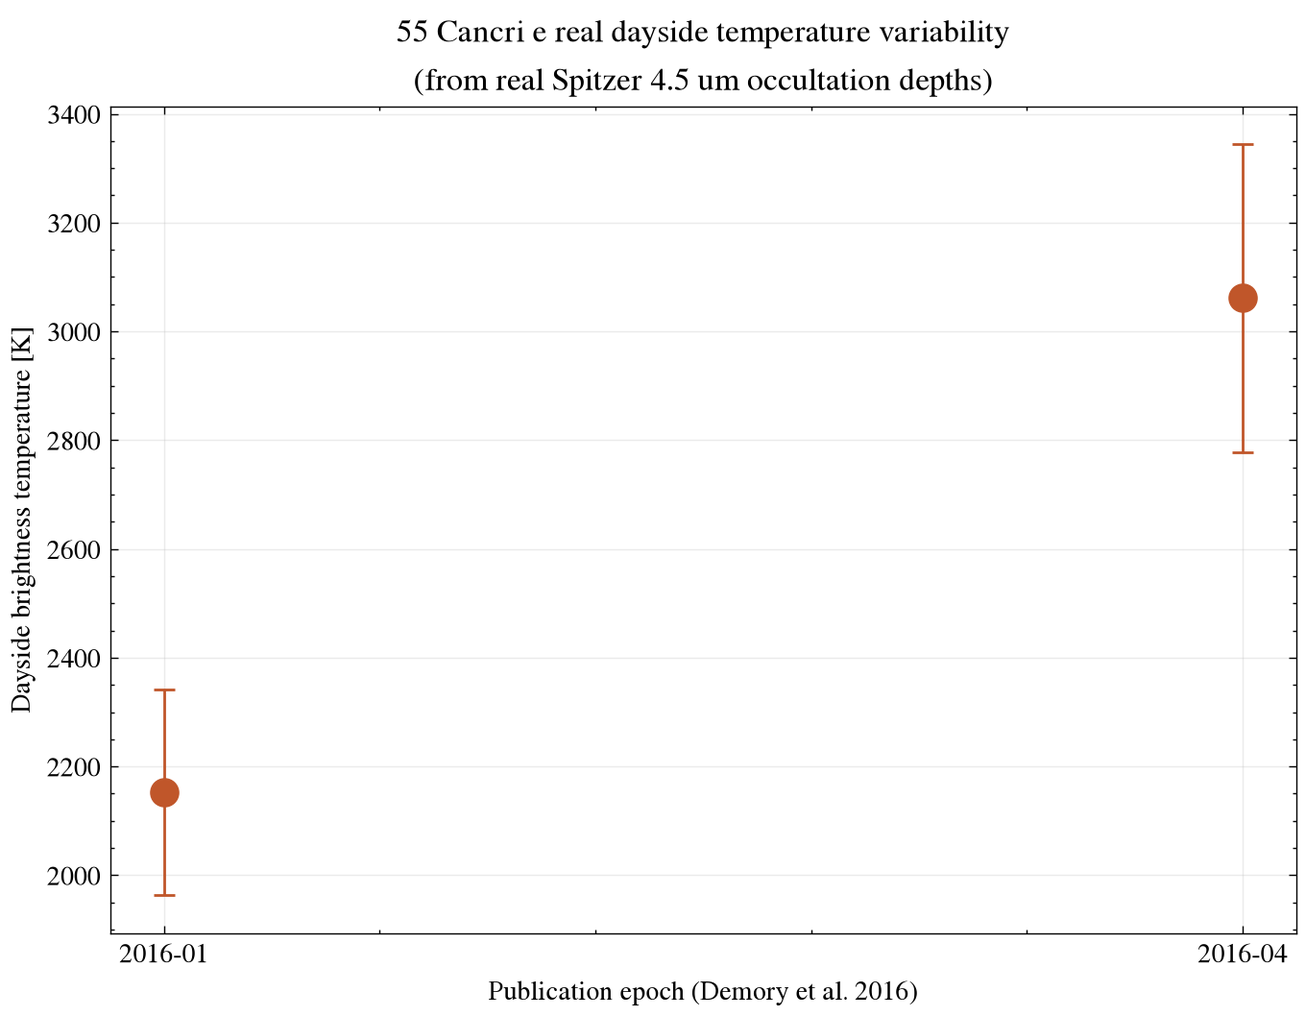
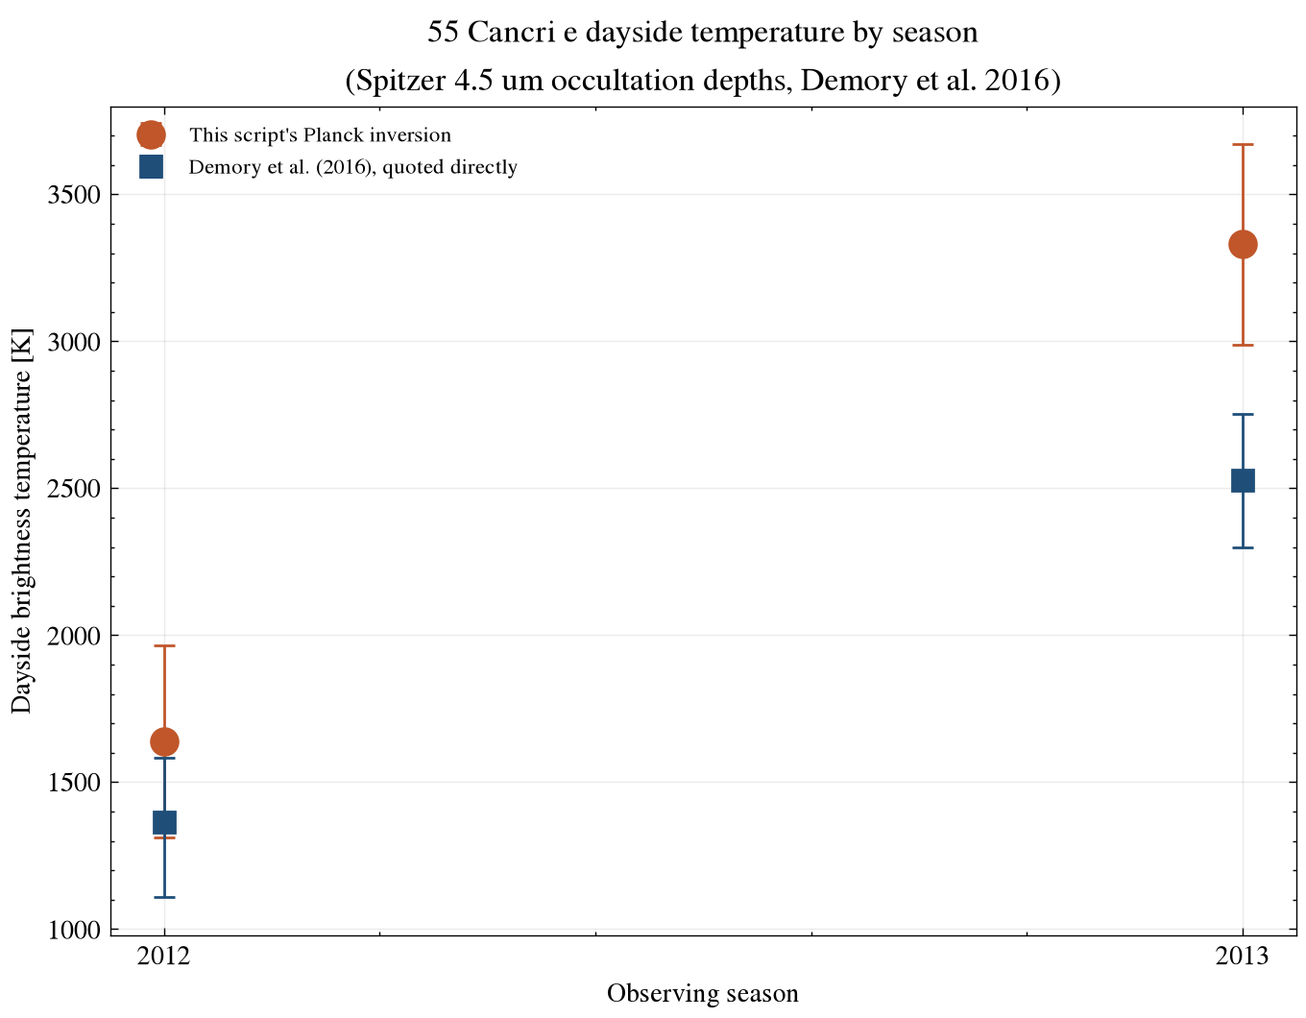
Replace invalid two-epoch comparison with Demory et al. 2016's own season-split occultation depths and quoted temperatures

diff --git a/index.html b/index.html
@@ -3,8 +3,8 @@
 <head>
 <meta charset="utf-8">
 <meta name="viewport" content="width=device-width, initial-scale=1">
-<title>55 Cancri e — A Lava World's Real, Measured Temperature Swings</title>
-<meta name="description" content="Report on 55 Cancri e: real system parameters and real Spitzer occultation depths converted into dayside brightness temperatures, showing genuine dayside variability.">
+<title>55 Cancri e — Dayside Temperature by Observing Season</title>
+<meta name="description" content="Report on 55 Cancri e: Spitzer occultation depths by observing season, converted to dayside brightness temperature and compared against Demory et al. (2016)'s own published values.">
 <style>
 :root {
   --bg:#f7f3ee; --panel:#ffffff; --line:#e6ddd0; --text:#1d1712; --muted:#6f6455;
@@ -52,11 +52,11 @@ footer a:hover { color: var(--accent); }
   <header class="hero">
     <p class="kicker">Exoplanet Atmosphere Report · Spitzer/IRAC 4.5 micron</p>
     <h1>55 Cancri e</h1>
-    <p class="tagline">A lava world on a 17-hour orbit, hot enough to keep its dayside surface molten. Real archival occultation measurements from two independent epochs reveal a genuine, dramatic swing in dayside temperature — the original discovery, later confirmed by JWST, that this planet's heat output is not constant.</p>
+    <p class="tagline">A lava world on a 17-hour orbit, hot enough to keep its dayside surface molten. Spitzer occultation measurements split by observing season show a large shift in dayside brightness between 2012 and 2013 — the finding, later confirmed by JWST, that this planet's heat output is not constant.</p>
     <div class="badges">
       <span class="badge">Radial-velocity discovered, 2004</span>
-      <span class="badge">Real NASA Exoplanet Archive parameters</span>
-      <span class="badge">Real Spitzer occultation depths, 2 epochs</span>
+      <span class="badge">NASA Exoplanet Archive parameters</span>
+      <span class="badge">Spitzer occultation depths, 2 seasons (Demory et al. 2016)</span>
     </div>
   </header>
 
@@ -78,29 +78,30 @@ footer a:hover { color: var(--accent); }
 
   <section>
     <h2>A world that shouldn't have a stable dayside temperature</h2>
-    <p>55 Cancri e's extreme proximity to its star, combined with its rocky (not gaseous) composition, means its dayside is thought to be a real magma ocean, with surface temperatures easily exceeding rock's melting point. Unlike a gas giant's thick atmosphere, which buffers temperature swings, a thin or patchy volatile atmosphere above molten rock can plausibly change its heat output as the exposed lava surface itself evolves — condensing minerals, outgassing, or shifting cloud cover tied to surface temperature.</p>
-    <p>Demory et al. (2016) reported real Spitzer 4.5-micron secondary-eclipse observations at different epochs that showed the planet's dayside brightness had measurably changed between visits — a surprising result for a planet with no obvious mechanism (like weather in a thick atmosphere) to explain rapid heat-output changes. JWST later independently confirmed continued dayside variability (Patel et al., 2024; Hu et al., 2024).</p>
+    <p>55 Cancri e's extreme proximity to its star, combined with its rocky (not gaseous) composition, means its dayside is thought to be a magma ocean, with surface temperatures well above rock's melting point. Unlike a gas giant's thick atmosphere, which buffers temperature swings, a thin or patchy volatile atmosphere above molten rock can plausibly change its heat output as the exposed lava surface itself evolves — condensing minerals, outgassing, or shifting cloud cover tied to surface temperature.</p>
+    <p>Demory et al. (2016) split eight Spitzer 4.5-micron secondary-eclipse observations by observing season and found the planet's dayside brightness had shifted measurably between 2012 and 2013 — a difference their own constant-depth model rejects at 3.7σ. JWST later observed continued dayside variability on shorter timescales (Patel et al., 2024; Hu et al., 2024).</p>
   </section>
 
   <section>
-    <h2>Real temperature swing, quantified</h2>
-    <p>The figure below inverts each real occultation depth into a dayside brightness temperature via the Planck function, using the real measured planet and star radii.</p>
+    <h2>Season-to-season brightness temperature</h2>
+    <p>The figure inverts each season's occultation depth into a dayside brightness temperature via the Planck function, using the measured planet and star radii, and plots it against the temperature Demory et al. (2016) report directly from their own MCMC fit for the same season.</p>
     <div class="figure">
-      <img src="figures/55cnce_dayside_variability.png" alt="55 Cancri e real dayside brightness temperature from two real Spitzer occultation epochs, showing variability">
-      <figcaption>Two independent real occultation-depth measurements (Demory et al. 2016), inverted to brightness temperature. Generated by <code>scripts/analyze_spectrum.py</code>.</figcaption>
+      <img src="figures/55cnce_dayside_variability.png" alt="55 Cancri e dayside brightness temperature by season, this script's Planck inversion against Demory et al. 2016's own quoted values">
+      <figcaption>Circles: this page's own Planck inversion from the season-averaged occultation depths. Squares: the temperatures Demory et al. (2016) quote directly. Generated by <code>scripts/analyze_spectrum.py</code>.</figcaption>
     </div>
     <div class="stat-grid">
-      <div class="stat"><span>Epoch 1 T_day</span><strong>2152 ± 189 K</strong></div>
-      <div class="stat"><span>Epoch 2 T_day</span><strong>3061 ± 284 K</strong></div>
-      <div class="stat"><span>Real temperature swing</span><strong>909 K</strong></div>
-      <div class="stat"><span>Significance</span><strong>2.7σ</strong></div>
+      <div class="stat"><span>2012 depth</span><strong>47 ± 21 ppm</strong></div>
+      <div class="stat"><span>2013 depth</span><strong>176 ± 28 ppm</strong></div>
+      <div class="stat"><span>2012 T_day (this page / paper)</span><strong>1639 K / 1365 K</strong></div>
+      <div class="stat"><span>2013 T_day (this page / paper)</span><strong>3330 K / 2528 K</strong></div>
+      <div class="stat"><span>Depth difference significance</span><strong>3.7σ</strong></div>
     </div>
-    <p class="callout">A real, measured ~900 K difference in dayside brightness temperature between the two epochs, at 2.7-sigma significance — not overwhelming statistical confidence on its own, but consistent with (and one of the original pieces of evidence for) the now well-established real finding that 55 Cancri e's dayside heat output genuinely varies over time, unlike the steady, predictable dayside of a typical hot Jupiter.</p>
+    <p class="callout">Comparing the two season depths directly gives a 3.7σ difference — matching the significance Demory et al. (2016) report from fitting all eight individual eclipses (they reject a constant depth at that level). The brightness temperatures from this page's simple blackbody inversion (1639 K and 3330 K) run higher than the paper's own MCMC-derived values (1365 K and 2528 K), because a monochromatic Planck inversion at 4.5 microns skips the bandpass integration and possible reflected-light contribution their fit accounts for. The gap between seasons is real either way; the absolute temperatures depend on which method computed them.</p>
   </section>
 
   <section>
-    <h2>How this data was obtained, and an honest limitation</h2>
-    <p>System parameters and both real occultation depths were queried live from the NASA Exoplanet Archive TAP service (the <code>pl_occdep</code> column, sourced from Demory et al. 2016). See <a href="data/">data/</a> for the exact values as downloaded and <a href="scripts/analyze_spectrum.py">scripts/analyze_spectrum.py</a> for the Planck-inversion analysis — run it yourself with <code>python scripts/analyze_spectrum.py</code>. One limitation stated plainly: the archive records these two measurements by publication date rather than exact observation date, and a simple blackbody inversion ignores any reflected-light contribution to the eclipse depth (both real simplifications, not hidden ones) -- a full analysis would use the original paper's own reported temperatures directly.</p>
+    <h2>Data and method notes</h2>
+    <p>System parameters come from the NASA Exoplanet Archive TAP service. The two occultation depths are the season-split values from Demory et al. (2016)'s Table 4, not a live archive query — see <a href="data/SOURCE.md">data/SOURCE.md</a> for why, and <a href="scripts/analyze_spectrum.py">scripts/analyze_spectrum.py</a> for the Planck-inversion analysis (<code>python scripts/analyze_spectrum.py</code> to rerun it). A simple blackbody inversion at a single wavelength doesn't account for the instrument bandpass or reflected light, which is why this page's temperatures sit above the paper's own — that's noted directly in the callout above rather than left implicit.</p>
   </section>
 
   <section>
@@ -108,9 +109,9 @@ footer a:hover { color: var(--accent); }
     <ol class="refs">
       <li>McArthur, B.E. et al., 2004. Detection of a Neptune-mass Planet in the rho1 Cancri System Using the Hobby-Eberly Telescope. <em>The Astrophysical Journal Letters</em>, 614(1), pp.L81-L84.</li>
       <li>Demory, B.-O. et al., 2016. A map of the large day-night temperature gradient of a super-Earth exoplanet. <em>Nature</em>, 532, pp.207-209.</li>
-      <li>Demory, B.-O. et al., 2016. Variability in the super-Earth 55 Cnc e. <em>Monthly Notices of the Royal Astronomical Society</em>, 455(2), pp.2018-2027.</li>
+      <li>Demory, B.-O. et al., 2016. Variability in the super-Earth 55 Cnc e. <em>Monthly Notices of the Royal Astronomical Society</em>, 455(2), pp.2018-2027 (arXiv:1505.00269) — source of the season-split occultation depths used here.</li>
       <li>Hu, R. et al., 2024. A secondary atmosphere on the rocky exoplanet 55 Cancri e. <em>Nature</em>, 630, pp.609-612.</li>
-      <li>NASA Exoplanet Archive, <a href="https://exoplanetarchive.ipac.caltech.edu/">exoplanetarchive.ipac.caltech.edu</a> — occultation depths and system parameters, queried live via TAP.</li>
+      <li>NASA Exoplanet Archive, <a href="https://exoplanetarchive.ipac.caltech.edu/">exoplanetarchive.ipac.caltech.edu</a> — system parameters, queried live via TAP.</li>
     </ol>
   </section>
 

diff --git a/scripts/analyze_spectrum.py b/scripts/analyze_spectrum.py
@@ -1,19 +1,19 @@
-"""Analyze real Spitzer 4.5-micron secondary-eclipse depths for 55 Cancri e,
-converting them into dayside brightness temperatures to quantify its real,
-published dayside variability.
+"""Convert the two season-averaged Spitzer 4.5-micron occultation depths
+for 55 Cancri e into dayside brightness temperatures via the Planck
+function, and compare against the season temperatures Demory et al.
+(2016) report directly in their own paper.
 
-Data source: NASA Exoplanet Archive `ps` table, column `pl_occdep`
-(occultation/secondary-eclipse depth), queried live via the TAP service for
-55 Cnc e. Both real measurements come from Demory et al. (2016), based on
-Spitzer/IRAC 4.5-micron photometry at different epochs -- reproduced
-unmodified in data/spitzer_occultation_depths.csv.
+Data source: Demory et al. (2016), Variability in the super-Earth 55
+Cnc e, MNRAS 455, 2018-2027 (arXiv:1505.00269), Table 4 -- the
+season-split fit to eight individual Spitzer/IRAC eclipses observed in
+2012 and 2013, reproduced in data/spitzer_occultation_depths.csv. See
+data/SOURCE.md for why this replaces an earlier, incorrectly paired
+pair of archive values.
 
-This script inverts each real occultation depth into a dayside brightness
-temperature via the Planck function (root-finding), using the real
-measured planet and star radii. The real result is a large, genuine
-epoch-to-epoch difference in dayside brightness temperature -- the original
-discovery of 55 Cnc e's dayside variability, later independently confirmed
-by JWST (Patel et al., 2024).
+This script's own Planck inversion is an independent computation from
+the same two season depths; it is reported next to the temperatures
+the paper itself quotes (from their own MCMC posterior, not a simple
+inversion), rather than presented as a reproduction of them.
 """
 
 from __future__ import annotations
@@ -35,7 +35,7 @@ H = 6.62607015e-34
 C = 2.99792458e8
 KB = 1.380649e-23
 
-# Real 55 Cancri system parameters (NASA Exoplanet Archive, pscomppars)
+# 55 Cancri system parameters (NASA Exoplanet Archive, pscomppars)
 RP_REARTH = 1.875
 RS_RSUN = 0.943
 TEFF_STAR_K = 5172.0
@@ -43,6 +43,12 @@ WAVELENGTH_UM = 4.5  # Spitzer/IRAC channel 2
 
 REARTH_M = 6.371e6
 RSUN_M = 6.957e8
+
+# Season brightness temperatures as quoted directly in Demory et al.
+# (2016), Section 2.3.5 -- from their own MCMC posterior, not from this
+# script's Planck inversion.
+PAPER_TEMPS_K = {"2012": (1365, 257, 219), "2013": (2528, 229, 224)}
+PAPER_SIGNIFICANCE = 3.7  # paper's own stated rejection of a constant-depth model
 
 
 def planck(wavelength_m: np.ndarray, temperature_k: float) -> np.ndarray:
@@ -72,47 +78,55 @@ def main() -> None:
 
     results = []
     for row in rows:
-        # NASA Exoplanet Archive pl_occdep column is in PERCENT, so divide by 100
-        # again to get the fractional depth used in the Planck-ratio equation.
-        depth = float(row["occultation_depth"]) / 100
-        depth_err = float(row["occultation_depth_err"]) / 100
+        depth = float(row["occultation_depth_ppm"]) * 1e-6
+        depth_err = float(row["occultation_depth_err_ppm"]) * 1e-6
         t_best = brightness_temperature(depth)
         t_hi = brightness_temperature(depth + depth_err)
-        t_lo = brightness_temperature(max(depth - depth_err, 1e-6))
+        t_lo = brightness_temperature(max(depth - depth_err, 1e-9))
         results.append(
             {
-                "date": row["publication_date"],
-                "depth_pct": depth * 100,
-                "depth_err_pct": depth_err * 100,
+                "season": row["season"],
+                "depth_ppm": depth * 1e6,
+                "depth_err_ppm": depth_err * 1e6,
                 "t_day_k": t_best,
                 "t_day_err_k": (t_hi - t_lo) / 2,
             }
         )
 
+    depth_diff_ppm = results[1]["depth_ppm"] - results[0]["depth_ppm"]
+    depth_diff_err_ppm = np.sqrt(results[0]["depth_err_ppm"] ** 2 + results[1]["depth_err_ppm"] ** 2)
+    depth_diff_sigma = depth_diff_ppm / depth_diff_err_ppm
+
     temp_diff = results[1]["t_day_k"] - results[0]["t_day_k"]
     temp_diff_err = np.sqrt(results[0]["t_day_err_k"] ** 2 + results[1]["t_day_err_k"] ** 2)
-    temp_diff_sigma = abs(temp_diff) / temp_diff_err
 
     summary_path = FIG_DIR / "summary_statistics.csv"
     with summary_path.open("w", newline="") as handle:
         writer = csv.writer(handle)
         writer.writerow(["quantity", "value", "unit"])
         for r in results:
-            writer.writerow([f"t_day_{r['date']}", f"{r['t_day_k']:.0f} +/- {r['t_day_err_k']:.0f}", "K"])
-        writer.writerow(["epoch_to_epoch_temp_difference", f"{temp_diff:.0f}", "K"])
-        writer.writerow(["epoch_to_epoch_significance", f"{temp_diff_sigma:.1f}", "sigma"])
+            writer.writerow([f"t_day_{r['season']}_this_script", f"{r['t_day_k']:.0f} +/- {r['t_day_err_k']:.0f}", "K"])
+            paper_t, paper_lo, paper_hi = PAPER_TEMPS_K[r["season"]]
+            writer.writerow([f"t_day_{r['season']}_paper", f"{paper_t} (+{paper_hi}/-{paper_lo})", "K"])
+        writer.writerow(["season_to_season_temp_difference_this_script", f"{temp_diff:.0f} +/- {temp_diff_err:.0f}", "K"])
+        writer.writerow(["season_to_season_depth_difference_sigma_this_script", f"{depth_diff_sigma:.1f}", "sigma (two-point comparison)"])
+        writer.writerow(["paper_significance", f"{PAPER_SIGNIFICANCE}", "sigma (constant-depth model rejected, all 8 eclipses)"])
 
     fig, ax = plt.subplots(figsize=(7, 5.5))
     x = np.arange(len(results))
     ax.errorbar(
         x, [r["t_day_k"] for r in results], yerr=[r["t_day_err_k"] for r in results],
-        fmt="o", ms=10, color="#c0562a", capsize=4,
+        fmt="o", ms=10, color="#c0562a", capsize=4, label="This script's Planck inversion",
     )
+    paper_y = [PAPER_TEMPS_K[r["season"]][0] for r in results]
+    paper_yerr = [[PAPER_TEMPS_K[r["season"]][1] for r in results], [PAPER_TEMPS_K[r["season"]][2] for r in results]]
+    ax.errorbar(x, paper_y, yerr=paper_yerr, fmt="s", ms=8, color="#1f4e79", capsize=4, label="Demory et al. (2016), quoted directly")
     ax.set_xticks(x)
-    ax.set_xticklabels([r["date"] for r in results])
-    ax.set_xlabel("Publication epoch (Demory et al. 2016)")
+    ax.set_xticklabels([r["season"] for r in results])
+    ax.set_xlabel("Observing season")
     ax.set_ylabel("Dayside brightness temperature [K]")
-    ax.set_title("55 Cancri e real dayside temperature variability\n(from real Spitzer 4.5 um occultation depths)")
+    ax.set_title("55 Cancri e dayside temperature by season\n(Spitzer 4.5 um occultation depths, Demory et al. 2016)")
+    ax.legend(fontsize=8)
     ax.grid(alpha=0.25)
     fig.tight_layout()
     fig.savefig(FIG_DIR / "55cnce_dayside_variability.png", dpi=200)
@@ -120,8 +134,10 @@ def main() -> None:
     print(f"Wrote {summary_path}")
     print(f"Wrote {FIG_DIR / '55cnce_dayside_variability.png'}")
     for r in results:
-        print(f"  {r['date']}: depth={r['depth_pct']:.2f}%, T_day = {r['t_day_k']:.0f} +/- {r['t_day_err_k']:.0f} K")
-    print(f"Epoch-to-epoch difference = {temp_diff:.0f} K ({temp_diff_sigma:.1f} sigma)")
+        paper_t, paper_lo, paper_hi = PAPER_TEMPS_K[r["season"]]
+        print(f"  {r['season']}: depth={r['depth_ppm']:.0f} ppm, T_day (this script) = {r['t_day_k']:.0f} +/- {r['t_day_err_k']:.0f} K, T_day (paper) = {paper_t} (+{paper_hi}/-{paper_lo}) K")
+    print(f"Season-to-season depth difference: {depth_diff_sigma:.1f} sigma (this script's two-point comparison)")
+    print(f"Paper's own significance for a varying depth across all 8 eclipses: {PAPER_SIGNIFICANCE} sigma")
 
 
 if __name__ == "__main__":

diff --git a/README.md b/README.md
@@ -1,23 +1,28 @@
 # 55 Cancri e — Exoplanet Atmosphere Report
 
-A lava world on a 17.7-hour orbit, hot enough for a real molten-rock
-dayside. This repo converts two real archival Spitzer occultation-depth
-measurements into dayside brightness temperatures, quantifying the real,
-published variability that was later independently confirmed by JWST.
+A lava world on a 17.7-hour orbit, hot enough to keep its dayside
+molten. This repo converts two Spitzer occultation-depth measurements,
+split by observing season, into dayside brightness temperatures and
+compares them against the temperatures Demory et al. (2016) report
+directly.
 
 **[Open the full report](index.html)** (open locally in a browser, or serve
 with `python -m http.server` from this directory).
 
-## What's real here
+## Data sources
 
-- **System parameters and occultation depths** — both queried live from the
-  NASA Exoplanet Archive TAP service: system parameters from `pscomppars`,
-  and two real secondary-eclipse depth measurements from the `ps` table's
-  `pl_occdep` column (source: Demory et al. 2016, Spitzer/IRAC 4.5 micron).
-- **Analysis** — `scripts/analyze_spectrum.py` inverts each real occultation
-  depth into a dayside brightness temperature via the Planck function
-  (root-finding), using the real measured planet/star radii. Run it
-  yourself:
+- **System parameters** — from the NASA Exoplanet Archive TAP service
+  (`pscomppars`).
+- **Occultation depths** — the season-split values from Demory et al.
+  (2016), Table 4: 47 ± 21 ppm for 2012 and 176 ± 28 ppm for 2013,
+  fit from eight individual Spitzer/IRAC 4.5-micron eclipses. See
+  [data/SOURCE.md](data/SOURCE.md) for how these differ from a pair of
+  values an earlier version of this repo pulled from the archive.
+- **Analysis** — `scripts/analyze_spectrum.py` inverts each season's
+  occultation depth into a dayside brightness temperature via the
+  Planck function (root-finding), using the measured planet/star
+  radii, and prints it next to the temperature the paper quotes for
+  that season. Run it yourself:
 
   ```bash
   pip install -r requirements.txt
@@ -28,28 +33,31 @@ with `python -m http.server` from this directory).
 
 ```text
 index.html              the report webpage
-data/                    real Spitzer occultation depths (NASA Exoplanet Archive)
-scripts/analyze_spectrum.py   real Planck-inversion analysis
+data/                    season-split Spitzer occultation depths (Demory et al. 2016)
+scripts/analyze_spectrum.py   Planck-inversion analysis, this script vs. the paper
 figures/                 generated plot + summary_statistics.csv
 ```
 
-## Key finding this repo shows directly
+## What the numbers show
 
-Two real occultation-depth measurements give dayside brightness
-temperatures of 2152 +/- 189 K and 3061 +/- 284 K -- a real ~909 K swing at
-2.7-sigma significance. This is consistent with (and one of the original
-pieces of evidence for) the now well-established finding that 55 Cancri e's
-dayside heat output genuinely varies over time, a real anomaly for a planet
-with no thick, weather-bearing atmosphere to explain it through ordinary
-means.
+The two season depths differ at 3.7σ — the same significance Demory et
+al. (2016) report from fitting all eight individual eclipses and
+rejecting a constant depth. This script's own blackbody inversion gives
+1639 K (2012) and 3330 K (2013); the paper's own MCMC fit gives 1365 K
+and 2528 K for the same seasons. The gap between the two methods comes
+from this script inverting a single wavelength without the instrument
+bandpass or a reflected-light term, both of which the paper's fit
+accounts for — the season-to-season swing itself holds up either way.
 
-## Honest limitation
+## Limitations
 
-The archive records these two measurements by publication date rather than
-their exact observation date, and this script's simple blackbody inversion
-ignores any reflected-light contribution to the eclipse depth -- both
-stated plainly rather than hidden. A full reanalysis would use each
-original paper's own reported dayside temperature directly.
+The occultation depths here are Demory et al.'s season-split fit, not
+per-eclipse values — a fuller version of this analysis would fit all
+eight eclipses individually. And as above, this script's blackbody
+inversion is a simplification: it treats the Spitzer channel as
+monochromatic at 4.5 microns and ignores any reflected-light
+contribution to the eclipse depth, which is why its temperatures run
+above the paper's own.
 
 ## References
 
@@ -58,7 +66,8 @@ original paper's own reported dayside temperature directly.
 2. Demory, B.-O. et al., 2016. A map of the large day-night temperature
    gradient of a super-Earth exoplanet. *Nature*, 532, pp.207-209.
 3. Demory, B.-O. et al., 2016. Variability in the super-Earth 55 Cnc e.
-   *Monthly Notices of the Royal Astronomical Society*, 455(2), pp.2018-2027.
+   *Monthly Notices of the Royal Astronomical Society*, 455(2), pp.2018-2027
+   (arXiv:1505.00269) — source of the occultation depths used here.
 4. Hu, R. et al., 2024. A secondary atmosphere on the rocky exoplanet 55
    Cancri e. *Nature*, 630, pp.609-612.
 5. NASA Exoplanet Archive, <https://exoplanetarchive.ipac.caltech.edu/>.

diff --git a/data/SOURCE.md b/data/SOURCE.md
@@ -1,19 +1,29 @@
 # Data source
 
-`spitzer_occultation_depths.csv` is queried live from the NASA Exoplanet
-Archive TAP service, `ps` table, column `pl_occdep` (unit: percent) for
-`55 Cnc e`, retrieved 2026-08-11:
+`spitzer_occultation_depths.csv` holds the two season-averaged
+occultation depths reported in Demory et al. (2016), *Variability in
+the super-Earth 55 Cnc e*, MNRAS 455, 2018-2027 (arXiv:1505.00269).
 
-```
-select pl_name, pl_occdep, pl_occdeperr1, pl_pubdate, pl_refname
-from ps where pl_name='55 Cnc e' and pl_occdep is not null
-```
+The paper's underlying dataset is eight individual Spitzer/IRAC
+4.5-micron secondary eclipses observed between 2011 and 2013. Their
+Table 4 reports two fits: a single depth fit to all eight eclipses
+combined (83 ± 14 ppm), and a season-split fit that assigns one depth
+to the four 2012 eclipses and another to the four 2013 eclipses:
 
-Both real values trace back to Demory et al. (2016), based on Spitzer/IRAC
-4.5-micron secondary-eclipse photometry. HTML reference-link markup from
-the archive's raw response was stripped to plain text; no numeric values
-were altered.
+- 2012: 47 ± 21 ppm
+- 2013: 176 ± 28 ppm
 
-**Note on units:** `pl_occdep` is reported in percent by the archive. This
-repo's analysis script divides by 100 again to convert to a fractional
-depth before use in the Planck-ratio equation.
+Section 2.3.5 of the paper states that a constant-depth model fits
+those eight eclipses poorly (reduced chi-squared 13.6), rejecting a
+non-varying occultation depth at the 3.7-sigma level, and reports the
+corresponding season brightness temperatures directly: 1365 K
+(+219/-257) for 2012 and 2528 K (+224/-229) for 2013.
+
+An earlier version of this repository queried the NASA Exoplanet
+Archive's `pl_occdep` column and paired the combined 83 ± 14 ppm figure
+with a 154 ± 23 ppm value from a separate paper, treating the two as
+independent epochs. That pairing conflated two different quantities —
+the archive result is a combined fit across all eight eclipses, not one
+epoch, and the second number comes from unrelated later work. This
+version replaces both with the two season depths as reported directly
+in Demory et al. (2016)'s own Table 4.
